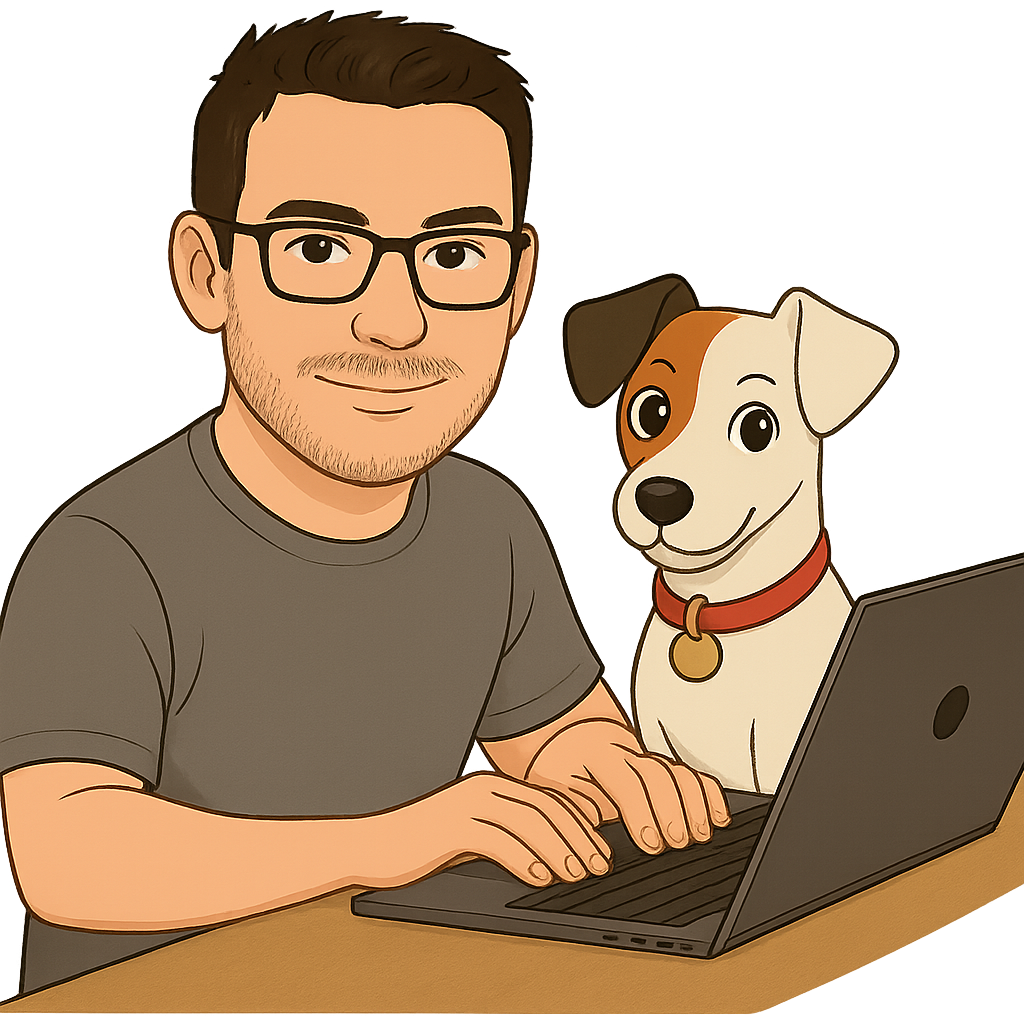
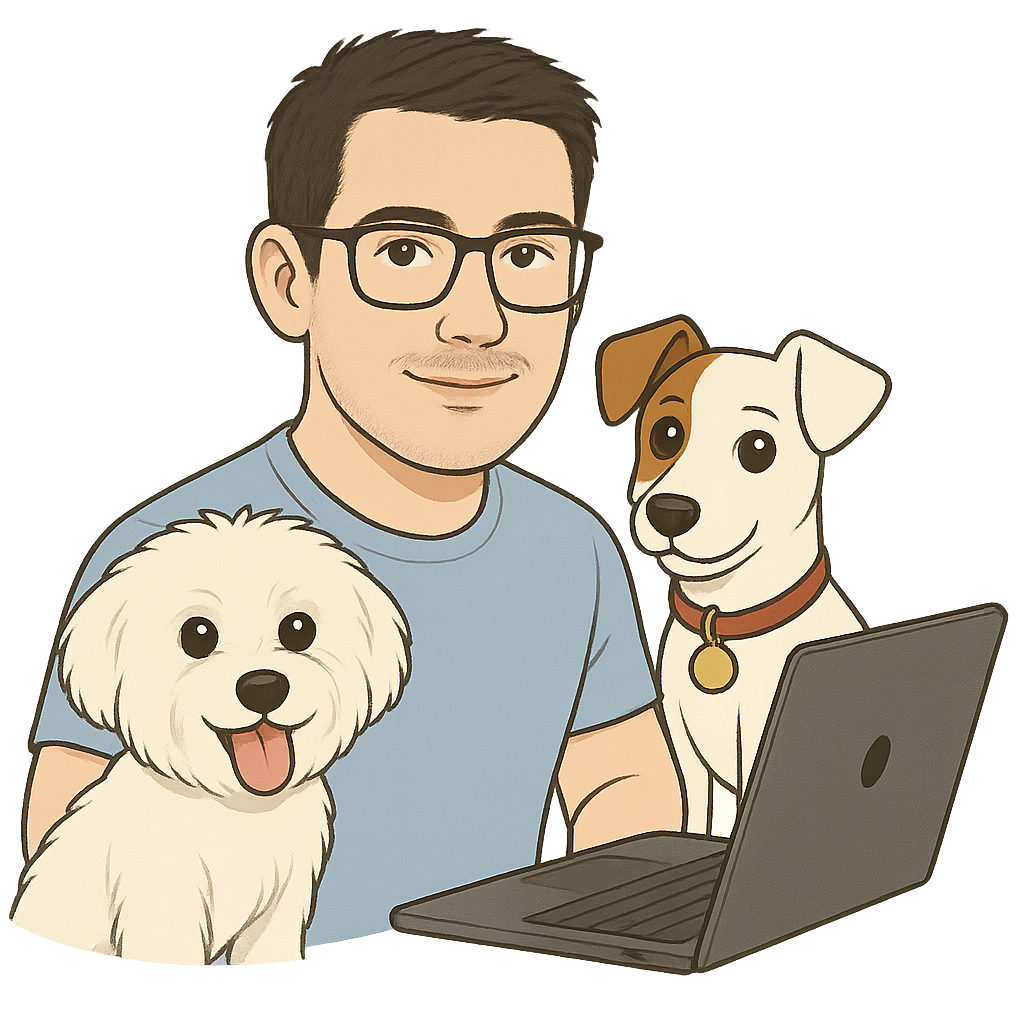
style: photo wip

diff --git a/src/app/sections/Hero/styles.module.scss b/src/app/sections/Hero/styles.module.scss
@@ -4,6 +4,16 @@
   background: var(--color-bg);
   overflow: hidden;
 
+  &__imageNoHover {
+    .hero__photoHover {
+      display: none !important;
+    }
+
+    .hero__photo {
+      opacity: 1 !important;
+    }
+  }
+
   &::after {
     content: '';
     position: absolute;
@@ -11,7 +21,7 @@
     right: 0;
     width: 100%;
     height: 100%;
-    background: radial-gradient(400px 400px at right center, rgba(var(--color-accent-rgb), 0.15), transparent 100%);
+    background: radial-gradient(1000px 400px at right center, rgba(var(--color-accent-rgb), 0.15), transparent 100%);
     pointer-events: none;
     z-index: 0;
   }
@@ -23,7 +33,7 @@
     left: 0;
     width: 100%;
     height: 100%;
-    background: radial-gradient(400px 400px at left center, rgba(var(--color-accent-rgb), 0.1), transparent 100%);
+    background: radial-gradient(1000px 400px at left center, rgba(var(--color-accent-rgb), 0.1), transparent 100%);
     pointer-events: none;
     z-index: 0;
   }
@@ -35,8 +45,7 @@
     align-items: center;
     justify-content: space-between;
     max-width: 1200px;
-    margin: 0 auto;
-    gap: 3rem;
+    gap: 10rem;
   }
 
   &__content {

diff --git a/src/app/sections/Hero/index.tsx b/src/app/sections/Hero/index.tsx
@@ -5,13 +5,17 @@ import Text from '@/app/components/ui/Text';
 import styles from './styles.module.scss';
 
 export default function HeroSection() {
+  const ENABLE_HOVER = false; 
+
   return (
     <section className={styles.hero}>
       <Section id="home">
         <div className={styles.hero__container}>
-        <div className={styles.hero__image}>
+        <div
+            className={`${styles.hero__image} ${!ENABLE_HOVER ? styles.hero__imageNoHover : ''}`}
+          >
           <Image
-            src="/assets/images/photo4.png"
+            src="/assets/images/photo5.png"
             alt="Foto 1"
             width={500}
             height={500}

diff --git a/src/app/page.tsx b/src/app/page.tsx
@@ -11,8 +11,8 @@ export default function Home() {
     <>
       <FadeIn variant="slideUp" duration={0.6}>
         <Hero />
-        <Navigation />
       </FadeIn>
+        <Navigation />
 
       <FadeIn variant="slideUp" duration={0.6}>
         <Skills />
